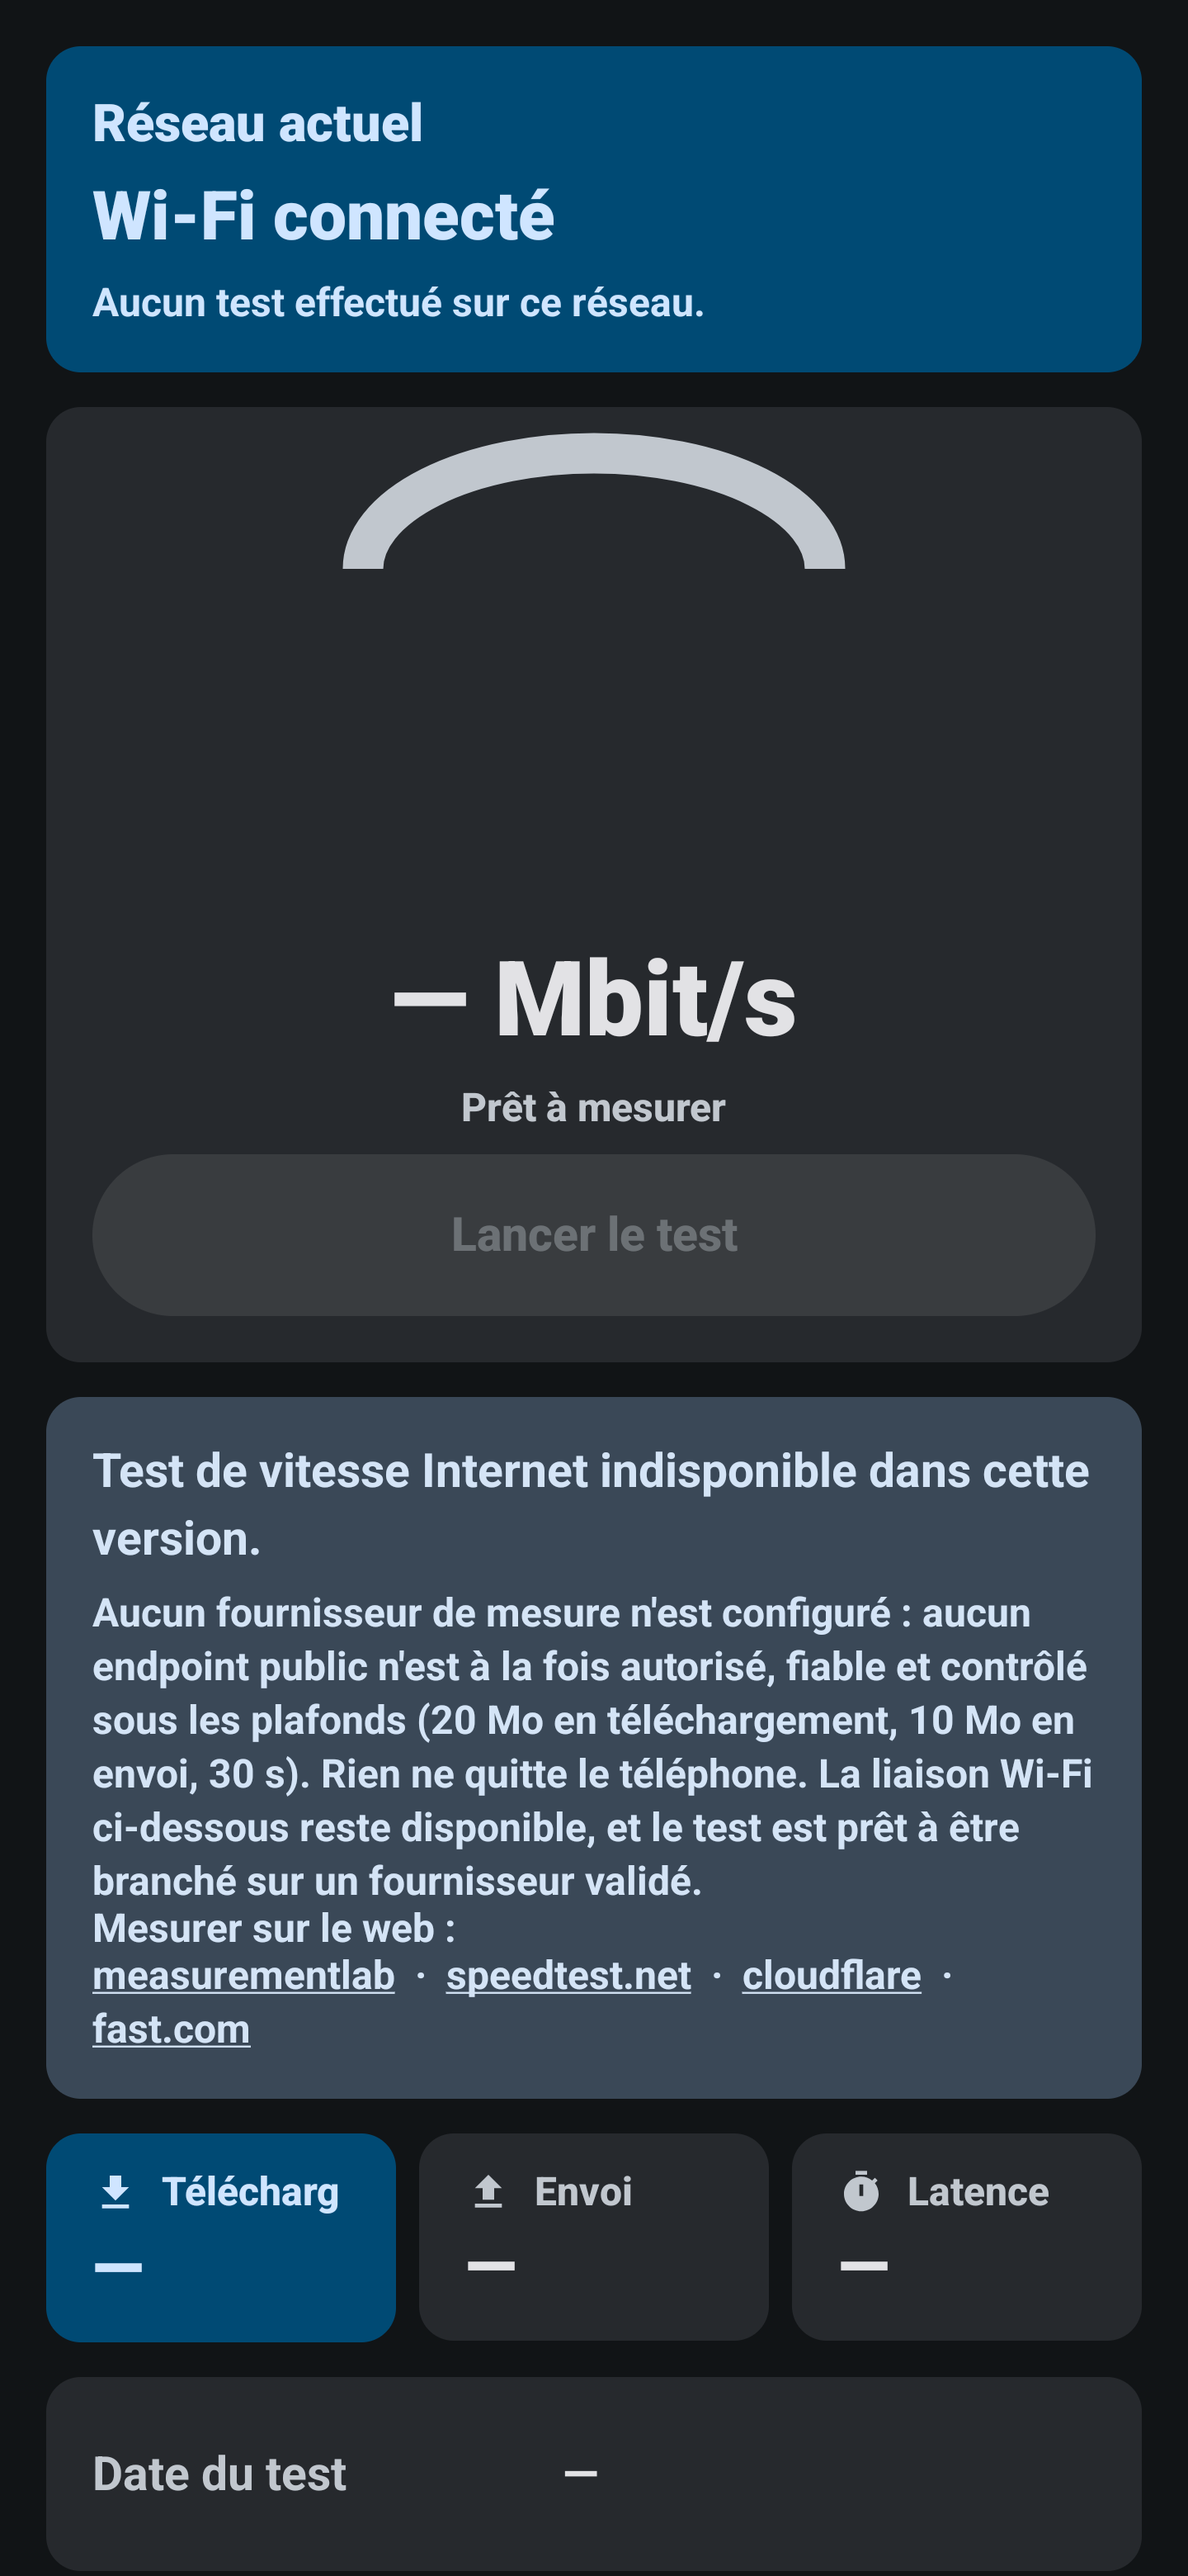
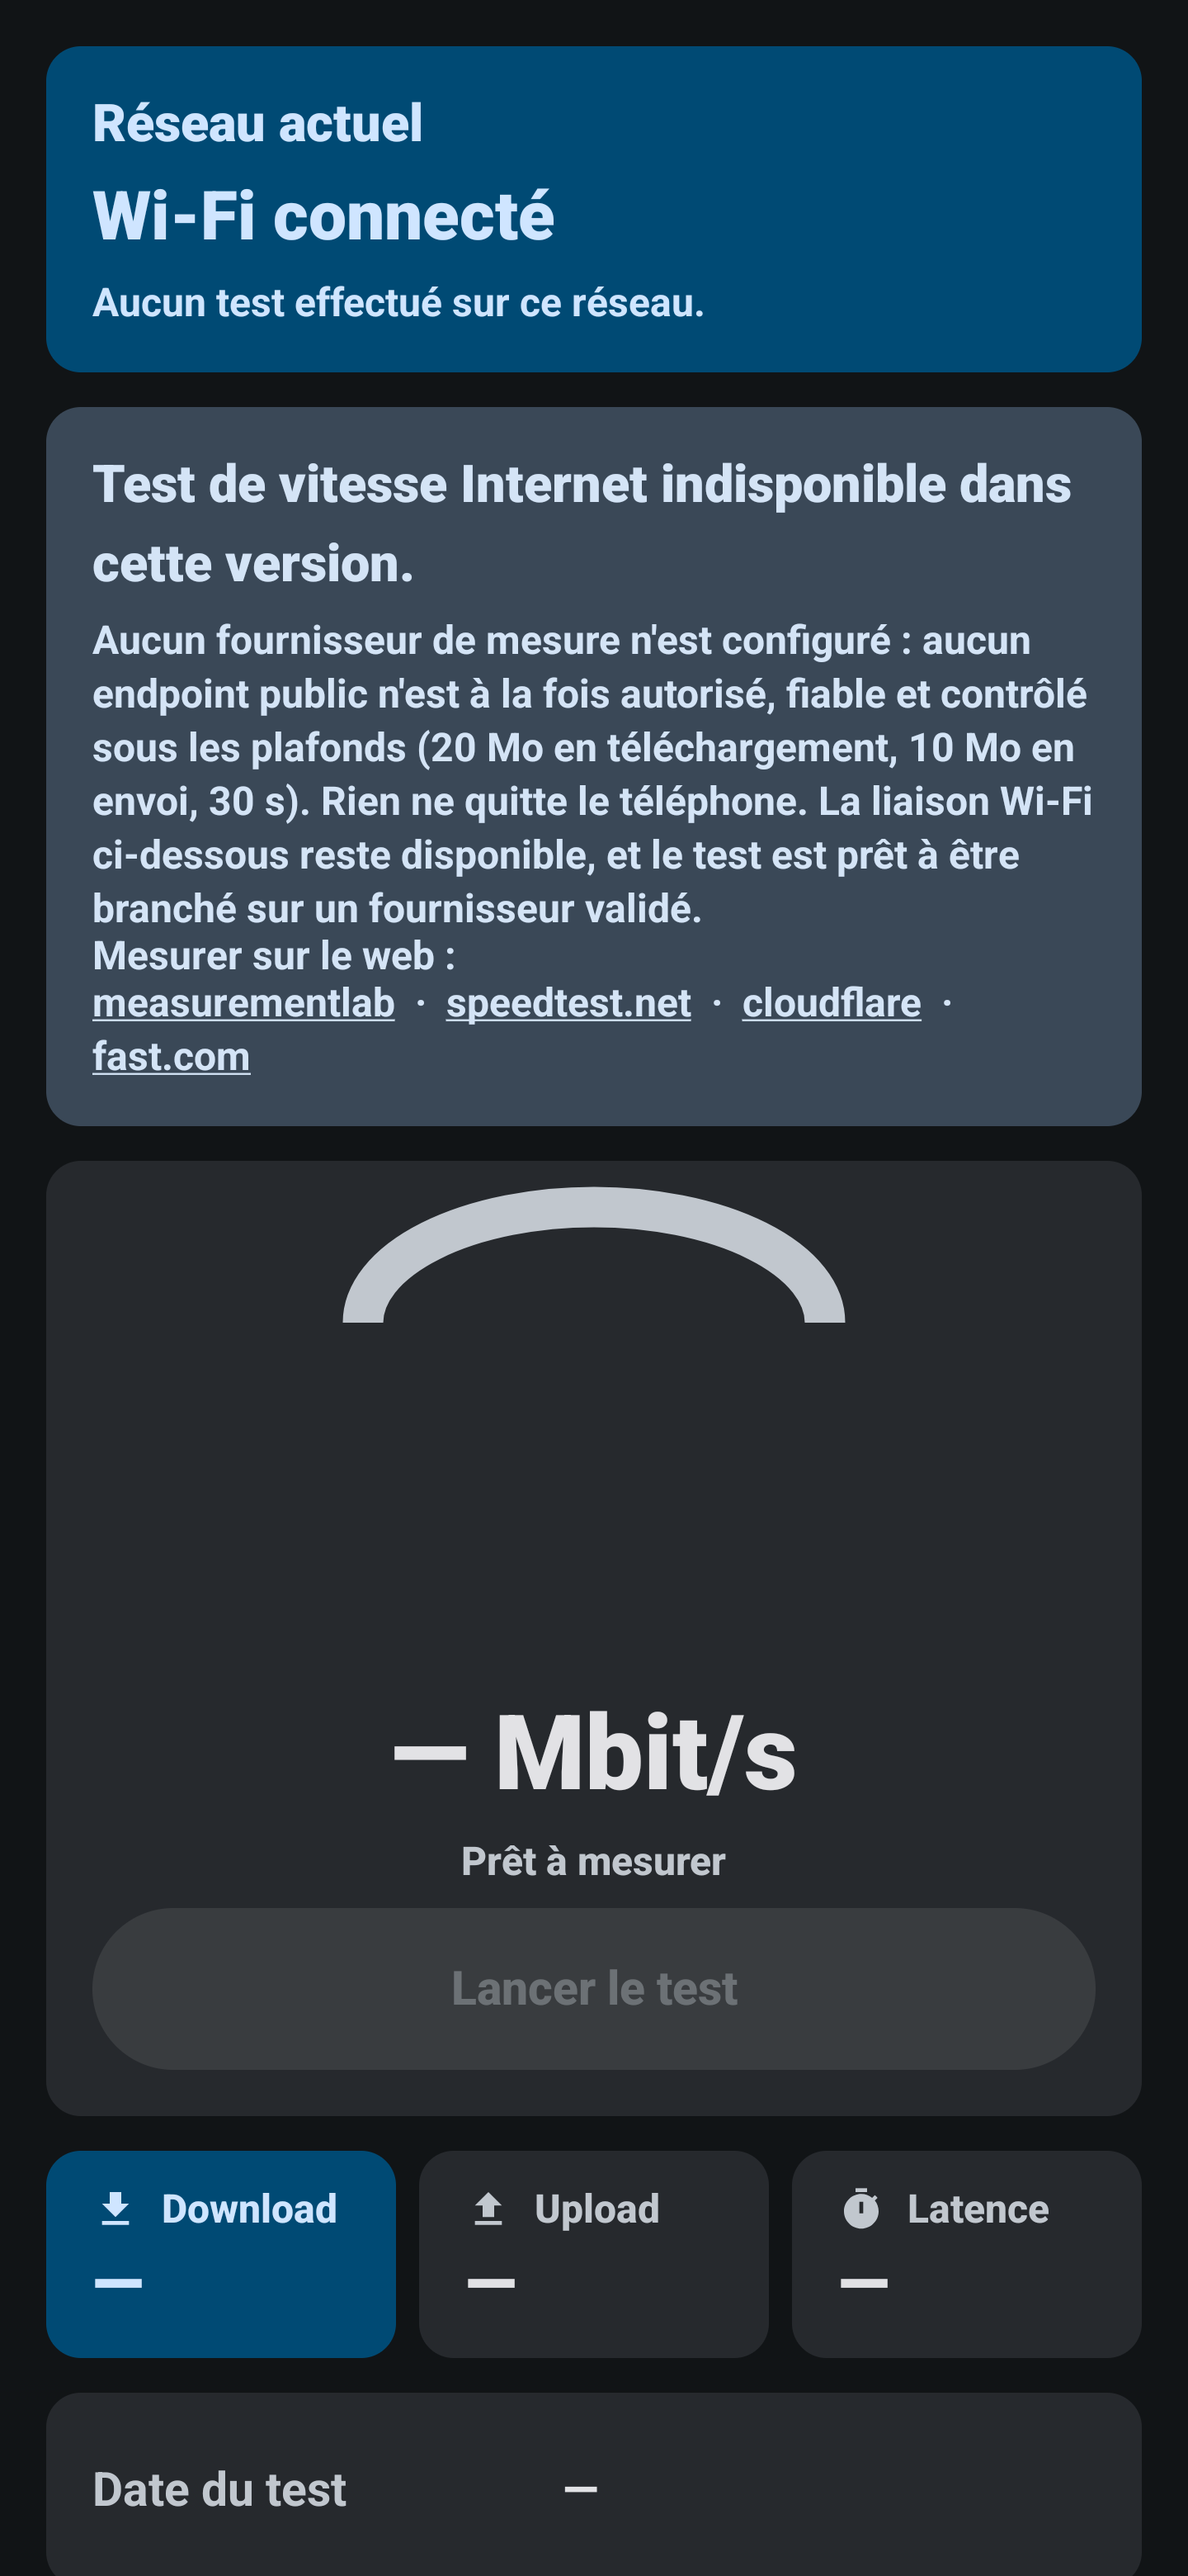
Mission 12: tests instrumentes et captures regeneres sur Pixel 7 Pro
- SpeedTestInstrumentedTest: bouton demarre desactive (assertIsNotEnabled), capture ready en theme clair
- Captures regenerees depuis le code courant (bandeau indisponible, bouton desactive)
- Validation Pixel: SpeedTest 5/5, DevicesList 14/14, Accessibilite 3/3, SessionExpiry 4/4, Navigation 3/3, NetworkChange 3/3
- Docs alignees sur l'etat reel des captures et des tests

Aucun test Internet reel, aucun changement protocole.

diff --git a/app/src/androidTest/java/dev/wifiadmin/app/SpeedTestInstrumentedTest.kt b/app/src/androidTest/java/dev/wifiadmin/app/SpeedTestInstrumentedTest.kt
@@ -5,9 +5,9 @@ import androidx.compose.ui.Modifier
 import androidx.compose.ui.test.captureToImage
 import androidx.compose.ui.test.junit4.createComposeRule
 import androidx.compose.ui.graphics.asAndroidBitmap
-import androidx.compose.ui.test.onNodeWithText
+import androidx.compose.ui.test.assertIsNotEnabled
+import androidx.compose.ui.test.onNodeWithTag
 import androidx.compose.ui.test.onRoot
-import androidx.compose.ui.test.performClick
 import androidx.test.ext.junit.runners.AndroidJUnit4
 import androidx.test.platform.app.InstrumentationRegistry
 import dev.wifiadmin.app.data.LocalNetworkStatus
@@ -62,8 +62,8 @@ class SpeedTestInstrumentedTest {
         }
     }
 
-    @Test fun capture_ready_dark() {
-        wrap(true, SpeedTestUiState()) {
+    @Test fun capture_ready_light() {
+        wrap(false, SpeedTestUiState()) {
             SpeedTestContent(
                 state = SpeedTestUiState(
                     wifiLink = WifiLinkInfo(linkSpeedMbps = 866, rssiDbm = -58, frequencyMhz = 5180, bandLabel = "5 GHz", wifiStandard = "Wi-Fi 6"),
@@ -71,7 +71,7 @@ class SpeedTestInstrumentedTest {
                 onStart = {}, onCancel = {}, onDismissConsent = {}, onAcceptConsent = {},
             )
         }
-        save("ready-sombre")
+        save("ready-clair")
     }
 
     @Test fun capture_running() {
@@ -135,13 +135,13 @@ class SpeedTestInstrumentedTest {
         save("result-sombre")
     }
 
-    @Test fun start_button_is_clickable() {
+    @Test fun start_button_is_disabled_without_a_provider() {
         wrap(false, SpeedTestUiState(hasConsented = true)) {
             SpeedTestContent(
                 state = SpeedTestUiState(hasConsented = true),
                 onStart = {}, onCancel = {}, onDismissConsent = {}, onAcceptConsent = {},
             )
         }
-        compose.onNodeWithText("Lancer le test").performClick()
+        compose.onNodeWithTag("speedtest_start_button").assertIsNotEnabled()
     }
 }

diff --git a/docs/MISSION_12_DEVICE_VALIDATION.md b/docs/MISSION_12_DEVICE_VALIDATION.md
@@ -1,6 +1,7 @@
 # Mission 12 — Validation sur Pixel 7 Pro
 
-> Date : 07/11/2026 · Pixel 7 Pro cheetah `2B091FDH3004DG` (Android 17, API 37), USB.
+> Date : 07/11/2026, tests et captures régénérés le 08/11/2026 · Pixel 7 Pro cheetah
+> `2B091FDH3004DG` (Android 17, API 37), USB.
 > ADB : `/home/ismael/Android/Sdk/platform-tools/adb`. **Aucun speed test réel n'a été lancé.**
 > Captures avec moteur simulé falsifié (`Moteur simulé (fictif)`, `sample-*` / `192.168.1.10`).
 
@@ -8,14 +9,15 @@
 
 Harnais instrumenté `SpeedTestInstrumentedTest` : `createComposeRule()` + `captureToImage()`,
 `WifiAdminTheme(dynamicColor=false)`, état construit à la main, `FakeSpeedTestEngine` stub.
-Stocké hors puce, `docs/screenshots/mission-12/mission12_screenshots/` (4 PNG) :
+Stocké sur l'appareil puis copié dans `docs/screenshots/mission-12/` (4 PNG, régénérés le
+08/11 depuis le code courant) :
 
 | Fichier | État |
 |---|---|
-| `ready-sombre.png` | Prêt, jauge « — », liaison fictive 866 Mbit/s −58 dBm 5 GHz Wi-Fi 6 |
-| `running-clair.png` | En cours, jauge 42 Mbit/s Téléchargement |
-| `error-disabled-sombre.png` | Idéal écran réel prod (moteur désactivé + liens externes) |
-| `result-sombre.png` | Terminé fictif 42,5 / 18,2 / 24 ms — étiquette « Moteur simulé (fictif) » |
+| `ready-clair.png` | État initial réel : bandeau « indisponible » en tête, jauge « — », bouton désactivé. La carte de liaison (866 Mbit/s, −58 dBm, 5 GHz, Wi-Fi 6) est fournie à l'écran mais sous la ligne de flottaison. |
+| `running-clair.png` | Démonstration de l'état en cours (42 Mbit/s, Téléchargement), bouton Annuler |
+| `error-disabled-sombre.png` | Écran de production : moteur désactivé + liens externes manuels |
+| `result-sombre.png` | Résultat fictif 42,5 / 18,2 / 24 ms — étiquette « Moteur simulé (fictif) », bouton Relancer désactivé |
 
 ## 2. Tests exécutés sur le Pixel
 
@@ -23,19 +25,18 @@ Stocké hors puce, `docs/screenshots/mission-12/mission12_screenshots/` (4 PNG) 
 |---|---|
 | `DevicesListInstrumentedTest` | 14 OK |
 | `DeviceAccessibilityInstrumentedTest` + `SessionExpiryInstrumentedTest` + `NavigationInstrumentedTest` | 3 + 4 + 3 OK |
-| `SpeedTestInstrumentedTest` | 5 OK |
+| `SpeedTestInstrumentedTest` | 5 OK (dont `start_button_is_disabled_without_a_provider`) |
+| `NetworkChangeInstrumentedTest` | 3 OK (~82 s) |
 | JVM (`router-core` 193 + `poc-cli` 56 + `app` 363 dont 41 speedtest) | 612 tests au total, 0 échec |
 | FakeRouter | pare-feu 10/10, expiration 3/3, aucune écriture |
 
-Suite complète 54 tests non lancée d'un bloc (polling 30 s) ; `NetworkChangeInstrumentedTest`
-seul OK en ~78 s le 07/11.
-
-**Réserve (revue corrective finale, 08/11)** : le Pixel 7 Pro n'était plus connecté
-(`adb devices` vide) lors de la dernière correction de concurrence. Les tests JVM, les builds
-`assembleDebug`/`assembleDebugAndroidTest` et les scénarios FakeRouter ont été rejoués ; les
-tests instrumentés et les captures n'ont pas été régénérés. Les captures restent des maquettes
-de démonstration issues de la révision `e14b39e` : leur bouton « Relancer » actif ne reflète
-plus l'écran actuel (bouton désactivé, bandeau d'indisponibilité en tête).
+Les 32 tests instrumentés concernés ont été rejoués le 08/11 après la correction de
+concurrence : `SpeedTestInstrumentedTest` 5/5, `DevicesListInstrumentedTest` 14/14,
+`DeviceAccessibilityInstrumentedTest` 3/3, `SessionExpiryInstrumentedTest` 4/4,
+`NavigationInstrumentedTest` 3/3, `NetworkChangeInstrumentedTest` 3/3. La suite complète
+(54 tests) n'est pas lancée d'un bloc à cause du polling de 30 s. Les captures ont été
+régénérées depuis le code courant ; elles restent des **maquettes de démonstration**, pas des
+mesures.
 
 ## 3. Procédure manuelle (à effectuer après branchement d'un fournisseur)
 

diff --git a/docs/MISSION_12_IMPLEMENTATION_REPORT.md b/docs/MISSION_12_IMPLEMENTATION_REPORT.md
@@ -90,10 +90,11 @@ aucun code aujourd'hui, car aucun transport Internet n'existe.
   localisation, pas de secret, route protégée). Suite complète :
   `router-core` (193) + `poc-cli` (56) + `app` (363, dont 41 speedtest) — 612 tests au total,
   0 échec.
-- Instrumentés : `SpeedTestInstrumentedTest` (5 états Compose, dont le bouton de démarrage
-  désactivé) + captures Pixel 7 Pro falsifiées (`docs/screenshots/mission-12/`). La suite
-  instrumentée n'a **pas** été rejouée après la revue corrective finale : le Pixel n'était plus
-  connecté (`adb devices` vide). Réserve documentée dans `MISSION_12_DEVICE_VALIDATION.md`.
+- Instrumentés (Pixel 7 Pro, 08/11) : `SpeedTestInstrumentedTest` 5/5, dont
+  `start_button_is_disabled_without_a_provider` ; `DevicesListInstrumentedTest` 14/14,
+  `DeviceAccessibilityInstrumentedTest` 3/3, `SessionExpiryInstrumentedTest` 4/4,
+  `NavigationInstrumentedTest` 3/3, `NetworkChangeInstrumentedTest` 3/3. Captures régénérées
+  depuis le code courant dans `docs/screenshots/mission-12/` (maquettes de démonstration).
 - Non-régression : `fake_router_scenarios.py` 10/10, `fake_router_expiry_scenarios.py` 3/3,
   `DevicesListInstrumentedTest` 14 OK, `SessionExpiryInstrumentedTest` 4 OK (session expirée).
 
@@ -108,7 +109,8 @@ aucun code aujourd'hui, car aucun transport Internet n'existe.
   tant que le moteur est désactivé.
 - Plafonds octets : aucun backstop indépendant dans le repository ; ils reposent sur le moteur.
   À renforcer (compteur de flux) avant de brancher un moteur réseau réel.
-- Captures antérieures à la revue corrective : maquettes de démonstration, non régénérées.
+- Captures régénérées le 08/11 : maquettes de démonstration (valeurs fictives), jamais des
+  mesures réelles.
 
 ## 8. État de la PR
 

diff --git a/docs/screenshots/mission-12/README.md b/docs/screenshots/mission-12/README.md
@@ -8,14 +8,13 @@
 
 | Fichier | État |
 |---|---|
-| `ready-sombre.png` | Prêt (moteur désactivé en prod ; ici simulé avec liaison) |
-| `running-clair.png` | En cours (Download, 42 Mbit/s) |
-| `error-disabled-sombre.png` | Écran réel de prod : moteur désactivé + liens externes |
-| `result-sombre.png` | Terminé falsifié 42,5 / 18,2 / 24 ms |
+| `ready-clair.png` | État initial réel : bandeau « indisponible » en tête, jauge « — », bouton désactivé (carte de liaison sous la ligne de flottaison) |
+| `running-clair.png` | Démonstration en cours (Download, 42 Mbit/s) |
+| `error-disabled-sombre.png` | Écran de production : moteur désactivé + liens externes |
+| `result-sombre.png` | Terminé falsifié 42,5 / 18,2 / 24 ms, bouton Relancer désactivé |
 
-Capturées sur Pixel 7 Pro `2B091FDH3004DG` (Android 17) via `SpeedTestInstrumentedTest`
-(2026-11-07 ~19 h), avant la revue corrective de concurrence. **Maquettes de démonstration,
-pas des mesures** : le bouton « Relancer » y apparaît actif alors que l'écran actuel le
-désactive, et le bandeau d'indisponibilité est désormais affiché en tête. Elles n'ont pas été
-régénérées car le Pixel n'était plus connecté le 08/11. Harnais et procédure :
-`docs/MISSION_12_DEVICE_VALIDATION.md`.
+Capturées sur Pixel 7 Pro `2B091FDH3004DG` (Android 17) via `SpeedTestInstrumentedTest`,
+régénérées le 08/11/2026 depuis le code courant (revue corrective incluse). **Maquettes de
+démonstration, pas des mesures** : les états « en cours » et « terminé » ne sont pas
+atteignables en production tant que le moteur est désactivé ; le bandeau d'indisponibilité y
+reste donc visible. Harnais et procédure : `docs/MISSION_12_DEVICE_VALIDATION.md`.
